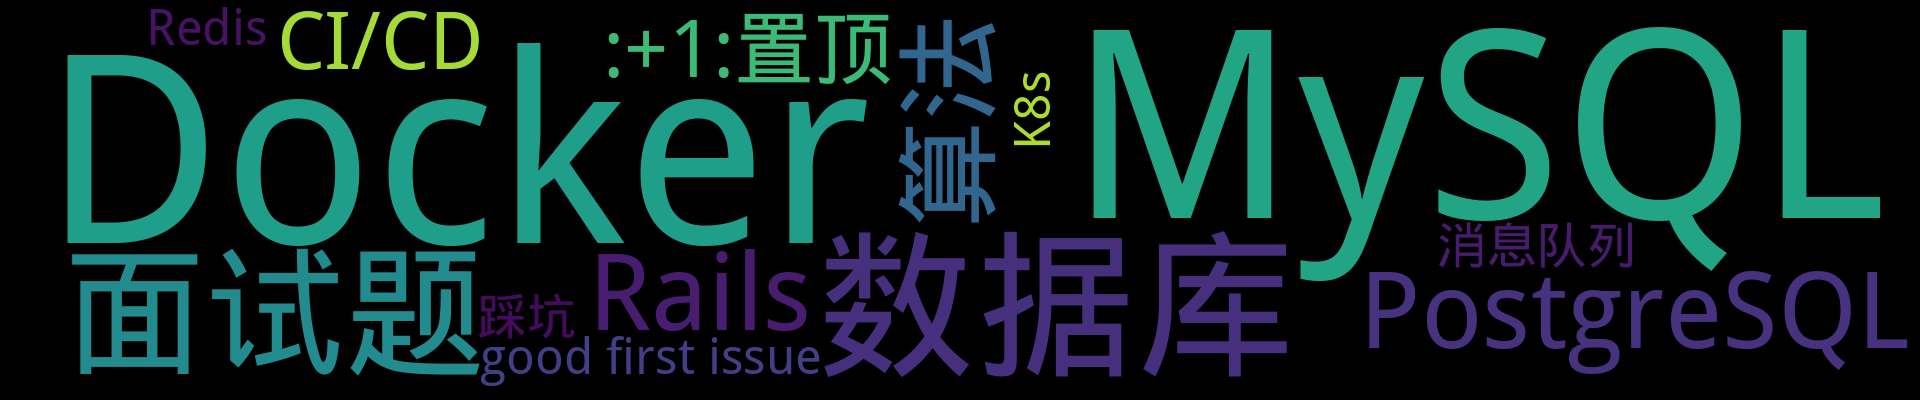
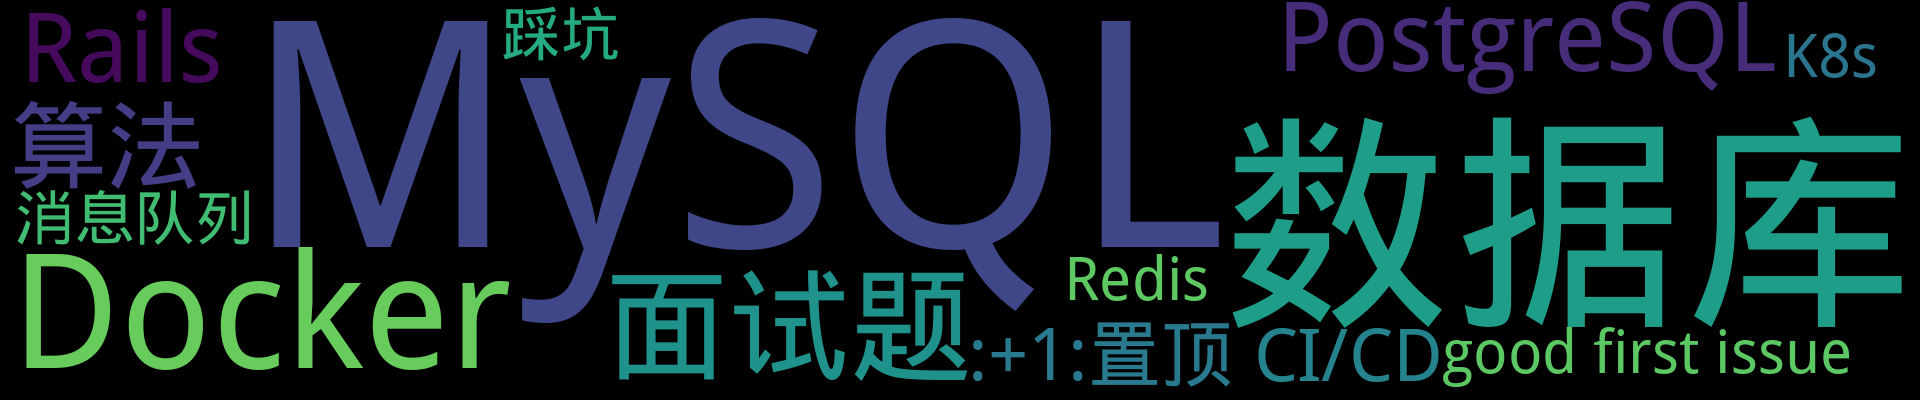
Update from Github Action

diff --git a/README.md b/README.md
@@ -3,7 +3,7 @@
 <p align='center'>
     <img src="https://badgen.net/badge/labels/17"/>
     <img src="https://badgen.net/github/issues/iamtomas/ghiblog"/>
-    <img src="https://badgen.net/badge/last-commit/2022-02-16 14:52:24"/>
+    <img src="https://badgen.net/badge/last-commit/2022-02-20 13:28:57"/>
     <img src="https://badgen.net/github/forks/iamtomas/ghiblog"/>
     <img src="https://badgen.net/github/stars/iamtomas/ghiblog"/>
     <img src="https://badgen.net/github/watchers/iamtomas/ghiblog"/>
@@ -20,6 +20,17 @@
 ## 置顶 :thumbsup: 
 - [基于Github Action自动生成并更新GitHub Issue博客的ReadMe](https://github.com/iamtomas/note/issues/1)  <sup>0 :speech_balloon:</sup>  	 
 ## 最新 :new: 
+
+#### [数据库设计大全](https://github.com/iamtomas/note/issues/28) <sup>0 :speech_balloon:</sup> 	 2022-02-20 13:28:31
+
+:label: : [MySQL](https://github.com/iamtomas/ghiblog/labels/MySQL), [数据库](https://github.com/iamtomas/ghiblog/labels/%E6%95%B0%E6%8D%AE%E5%BA%93)
+
+http://open.yesapi.cn/list.html
+
+[更多>>>](https://github.com/iamtomas/note/issues/28)
+
+---
+
 
 #### [Kubernetes入门一](https://github.com/iamtomas/note/issues/27) <sup>0 :speech_balloon:</sup> 	 2022-02-15 15:51:43
 
@@ -71,24 +82,6 @@
 参考：https://github.com/docker/compos
 
 [更多>>>](https://github.com/iamtomas/note/issues/24)
-
----
-
-
-#### [解决OSX使用oh-my-zsh后.bash_profile自定义失效](https://github.com/iamtomas/note/issues/23) <sup>0 :speech_balloon:</sup> 	 2022-02-09 09:26:20
-
-:label: : [踩坑](https://github.com/iamtomas/ghiblog/labels/%E8%B8%A9%E5%9D%91)
-
-### 原因
-oh-my-zsh的配置文件为.zshrc，而默认shell(bash)的配置文件为.bash_profile
-
-### 如何解决
-
-打开oh-my-zsh的配置文件 `.zshrc`
-
-
-
-[更多>>>](https://github.com/iamtomas/note/issues/23)
 
 ---
 
@@ -153,8 +146,9 @@ oh-my-zsh的配置文件为.zshrc，而默认shell(bash)的配置文件为.bash_
 </details>
 
 <details>
-<summary>MySQL	<sup>4:newspaper:</sup></summary>
+<summary>MySQL	<sup>5:newspaper:</sup></summary>
 
+- [数据库设计大全](https://github.com/iamtomas/note/issues/28)  <sup>0 :speech_balloon:</sup>  	 
 - [MySQL零散知识笔记](https://github.com/iamtomas/note/issues/14)  <sup>0 :speech_balloon:</sup>  	 
 - [一条SQL更新语句是如何执行的？](https://github.com/iamtomas/note/issues/12)  <sup>0 :speech_balloon:</sup>  	 
 - [MySQL中InnoDB记录与页结构](https://github.com/iamtomas/note/issues/10)  <sup>0 :speech_balloon:</sup>  	 
@@ -204,8 +198,9 @@ oh-my-zsh的配置文件为.zshrc，而默认shell(bash)的配置文件为.bash_
 </details>
 
 <details>
-<summary>数据库	<sup>4:newspaper:</sup></summary>
+<summary>数据库	<sup>5:newspaper:</sup></summary>
 
+- [数据库设计大全](https://github.com/iamtomas/note/issues/28)  <sup>0 :speech_balloon:</sup>  	 
 - [一条SQL查询语句是如何执行的？](https://github.com/iamtomas/note/issues/18)  <sup>0 :speech_balloon:</sup>  	 
 - [一条SQL更新语句是如何执行的？](https://github.com/iamtomas/note/issues/12)  <sup>0 :speech_balloon:</sup>  	 
 - [MySQL中InnoDB记录与页结构](https://github.com/iamtomas/note/issues/10)  <sup>0 :speech_balloon:</sup>  	 
